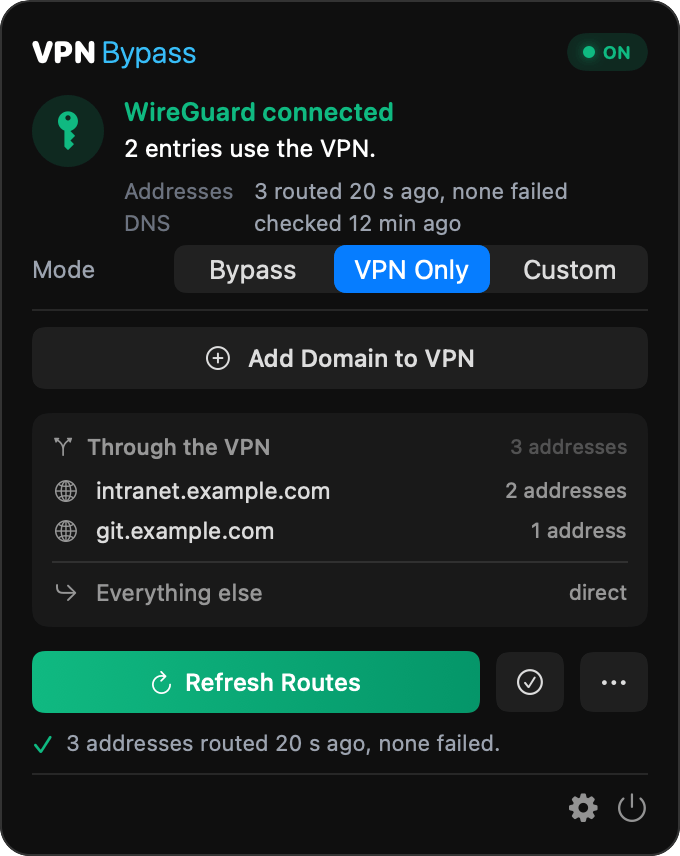
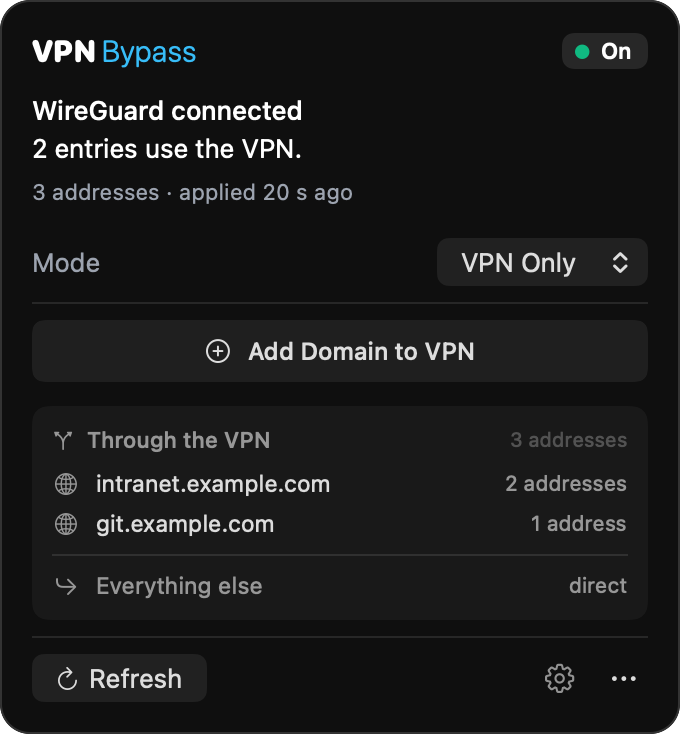
docs: describe the status chip, the new footer and Status > Problems

diff --git a/docs/usage.md b/docs/usage.md
@@ -6,21 +6,19 @@ Two words mean one thing each on screen. A **route** is a way out for traffic in
 
 Click the VPN Bypass mark in the menu bar: two lines and a bar, with an arrow head on the top line while routes are enforced. The dropdown shows:
 
-- a pill that reads ON, WAITING (the app waits for a reconnected tunnel to hold before it re-applies routes), HELD BACK (the tunnel dropped right after several applies, so the app is not applying until it has held for 30 minutes), NOTHING ROUTED (no address is routed), NOT SET UP (a fresh install with nothing configured), NOT ENFORCING (the helper is down), NO EFFECT (the VPN's kill switch sends all traffic through it, so the routes change nothing; see [VPN kill switches](coexistence.md#vpn-kill-switches)) or OFF (no VPN);
-- the VPN it found, one sentence on what your lists route, and two facts: how many addresses were last routed, when, and whether any failed, and when DNS was checked and runs next. While the pill reads WAITING or HELD BACK, the header says how long is left instead;
+- a status chip next to the wordmark, the only coloured mark at the top: On, Waiting (the app waits for a reconnected tunnel to hold before it re-applies routes, or holds back after the tunnel dropped right after several applies), Partly routed (some of your list is routed and some failed or has no addresses), Not routing (nothing is routed, the helper is down, or the VPN's kill switch sends all traffic through it, so the routes change nothing; see [VPN kill switches](coexistence.md#vpn-kill-switches)) or Off (no VPN, or a fresh install with nothing configured), in grey, since neither is a fault;
+- three lines under it: the VPN it found, one sentence on what your lists route, and a third line with the numbers, for example "62 addresses · applied 24 s ago · DNS again in 18 min". When something is wrong, the third line says what instead, with one button: with the helper down it says how many addresses from before are still routed, never that nothing is, and Fix… opens Settings > Status, where the helper's Install button is; when part of an apply failed it gives the count, for example "62 addresses, 7 failed", and Show opens Settings > Status > Problems. Problems lists each address the system refused and each name that did not resolve, with the entry it was for and the reason, then the entries that route no address; Retry applies the routes again, or after a Remove All Routes that left some, removes them again. With no VPN it says what connecting does in the current mode. While the chip reads Waiting, it counts down to the apply;
 - on a fresh install in Bypass mode, in place of everything down to the gear: the question "What should skip the VPN?", six common services with their switches, a row that opens Settings on the Services page, a field to add a site, and a line that offers VPN Only. Once a service is on or a site is on the list, the normal dropdown below takes its place at once;
-- the Mode control, with Bypass, VPN Only and Custom in every mode. Picking another mode asks first, and the selection moves only after you confirm. Entering Custom turns your lists into rules here too, when Custom has no rules yet and the current mode's list has an entry switched on, and the question says so only then, as the Settings sheet does;
+- the Mode popup, with Bypass, VPN Only and Custom in every mode. Picking another mode asks first, and the selection moves only after you confirm. Entering Custom turns your lists into rules here too, when Custom has no rules yet and the current mode's list has an entry switched on, and the question says so only then, as the Settings sheet does;
 - a field to add a domain to the current mode's list. In Custom mode it adds a rule on the Direct route instead: an IP range such as `10.0.0.0/24` becomes a CIDR rule, and a name or a pasted link becomes a domain rule for its host. A value it cannot save stays in the field with a line under it that says why: a range with a prefix outside /2 to /32, or a value that already has a rule. When that rule is on another route, such as your VPN or a proxy, the line names the route, since the first matching rule wins and a Direct rule after it would do nothing;
-- what your lists route, one row per service, domain or IP range you added, with how many addresses it routes, under Skipping the VPN in Bypass or Through the VPN in VPN Only. Hover over a row to see its addresses. A row that routes no address while no apply is running or waiting after a reconnect gets an amber mark and "no addresses". In VPN Only the app's own catch-alls are one line, "Everything else: direct", and the counts leave them out: the card, the header's Addresses fact, the line under the buttons, the Status page's Addresses section and the Addresses Routed notification all count only the addresses your lists route. Addresses owned under Tunnels on the Status page counts the kernel's routes that carry the app's tag by the same rule and names the catch-alls apart, as in "2, plus 4 catch-alls". With only the catch-alls in place, the pill still reads ON, since everything else is routed direct. In Custom mode, Routes In Use comes first, then Routed by your rules lists the rules that routed an address. Addresses that no entry on your lists owns, such as those of an entry you just removed, are one "Left from earlier" line;
-- Refresh Routes, a Verify Routes icon, and a "…" menu with Refresh Routes, Verify Routes, Re-resolve DNS Now, Open Logs, Settings…, Quit VPN Bypass and Remove All Routes…, which asks before it removes anything;
-- after Verify Routes, a Route check card above the buttons. Verify path-checks at most 10 of the routed addresses: single addresses only, because a range has no one address to connect to, and the first 10 in sort order. Each must leave the way its route points and answer on port 443, and a control address the app does not route must leave the other way, or every result reads "Check broken" (see [Path check](how-it-works.md#path-check)). The card says how many of how many addresses it checked, for example "Checked 10 of 62 addresses (single addresses only).", lists the addresses that did not answer first, up to three with what each is routed for and why it failed ("Went into utun4", "No answer on 443 via en0") and then "+ N more", then one line for the rest with their response times. "Show all 10 results in Logs" opens Settings on the Logs page, where each address has its own line. With only address ranges routed, the card says there was nothing the path check could test;
-- one line under the buttons with the result of the last apply, for example "62 addresses routed 23 s ago, none failed";
-- after a change made through `vpnb` or an [MCP server](mcp-server.md), a line at the foot that names it, for example "Last change: added en.wikipedia.org via the command line, 2 min ago". Click it to open Logs showing only the lines that came through the control socket. A change you make in the app removes the line;
-- the gear that opens Settings and the power button that quits the app.
+- what your lists route, one row per service, domain or IP range you added, with how many addresses it routes, under Skipping the VPN in Bypass or Through the VPN in VPN Only. Hover over a row to see its addresses. A row that routes no address while no apply is running or waiting after a reconnect gets an amber mark and "no addresses". In VPN Only the app's own catch-alls are one line, "Everything else: direct", and the counts leave them out: the card, the third line at the top, the Status page's Addresses section and the Addresses Routed notification all count only the addresses your lists route. Addresses owned under Tunnels on the Status page counts the kernel's routes that carry the app's tag by the same rule and names the catch-alls apart, as in "2, plus 4 catch-alls". With only the catch-alls in place, the chip still reads On, since everything else is routed direct. In Custom mode, Routes In Use comes first, then Routed by your rules lists the rules that routed an address. Addresses that no entry on your lists owns, such as those of an entry you just removed, are one "Left from earlier" line;
+- Refresh, the gear that opens Settings, and a "…" menu with Verify Routes and Re-resolve DNS Now while a VPN is connected, then Open Logs, Quit VPN Bypass and Remove All Routes…, which asks before it removes anything. The gear and the "…" menu take a click anywhere in a 24 pt square around them;
+- after Verify Routes, the result is a Route check card on Settings > Status, where Dismiss takes it away. Verify path-checks at most 10 of the routed addresses: single addresses only, because a range has no one address to connect to, and the first 10 in sort order. Each must leave the way its route points and answer on port 443, and a control address the app does not route must leave the other way, or every result reads "Check broken" (see [Path check](how-it-works.md#path-check)). The card says how many of how many addresses it checked, for example "Checked 10 of 62 addresses (single addresses only).", lists the addresses that did not answer first, up to three with what each is routed for and why it failed ("Went into utun4", "No answer on 443 via en0") and then "+ N more", then one line for the rest with their response times. "Show all 10 results in Logs" opens the Logs page, where each address has its own line. With only address ranges routed, the card says there was nothing the path check could test;
+- after a change made through `vpnb` or an [MCP server](mcp-server.md), a line at the foot that names it, for example "Last change: added en.wikipedia.org via the command line, 2 min ago". Click it to open Logs showing only the lines that came through the control socket. A change you make in the app removes the line.
 
 Each time you open the dropdown, the app checks the VPN again and puts back any route macOS dropped, so the dropdown shows the state as it is now. It also runs the same check every 30 seconds, whether the dropdown is open or not, and while an alert such as the mode switch question waits for an answer.
 
-While the dropdown is open, ⌘, opens Settings and ⌘Q quits. ⌘R refreshes routes only while the Refresh Routes button shows, which is when a VPN is connected; with no VPN, on first run and during the first check it does nothing. Holding ⌘R refreshes once. The "…" menu lists each shortcut next to its item, and the gear's and power button's tooltips name theirs.
+While the dropdown is open, ⌘, opens Settings and ⌘Q quits. ⌘R refreshes routes only while the Refresh button is enabled, which is when a VPN is connected and the helper is ready; otherwise it does nothing. Holding ⌘R refreshes once. The "…" menu lists ⌘Q next to Quit, and the Refresh button's and the gear's tooltips name their shortcuts.
 
 ![The dropdown in Bypass mode: WireGuard connected, the status chip reads On, and four services and two domains skip the VPN, each with how many addresses it routes](images/screenshots/menu-bar.png){ width="340" }
 

diff --git a/docs/getting-started.md b/docs/getting-started.md
@@ -44,17 +44,17 @@ Open `Package.swift` in Xcode and run the project.
 2. macOS asks for an administrator password once. That installs the root helper that edits the routing table. On macOS 13 and later it may also ask you to allow VPN Bypass under System Settings > General > Login Items; the app says so in its dropdown when that is the case.
 3. Connect your VPN. The dropdown reads VPN Connected and names the client it found.
 
-A fresh install routes nothing. The pill in the dropdown reads NOT SET UP, and the dropdown asks "What should skip the VPN?" with six common services, each with a switch, a row for all the services, and a field to add a site.
+A fresh install routes nothing. The status chip in the dropdown reads Off, in grey, and the dropdown asks "What should skip the VPN?" with six common services, each with a switch, a row for all the services, and a field to add a site.
 
-![The dropdown right after install: WireGuard connected, the pill reads NOT SET UP, and the question What should skip the VPN? over six services with switches and a field to add a site](images/screenshots/first-run.png){ width="340" }
+![The dropdown right after install: WireGuard connected, the status chip reads Off, and the question What should skip the VPN? over six services with switches and a field to add a site](images/screenshots/first-run.png){ width="340" }
 
 Switch on a service there, or type a site into the field and press Return. "All 51 services…" opens Settings on the Services page with the service catalogue open. If you want the opposite, only a few sites on the VPN, click "Use VPN Only instead…". It worked when:
 
-- the pill reads ON;
+- the status chip reads On;
 - the menu bar mark shows its arrow head (it is two plain lines and a bar while nothing is routed);
 - the question gives way to the normal dropdown, and the service or domain appears under Skipping the VPN with how many addresses it routes.
 
-If the pill reads NOT ENFORCING, the helper is not running; Settings > Status shows its state, with an Install, Update or Retry button; the dropdown's Fix… button opens it. If macOS says the app is damaged, see [Troubleshooting](troubleshooting.md#app-wont-open-damaged-error-macos-gatekeeper).
+If the status chip reads Not routing and the dropdown says the helper is not running, Settings > Status shows its state, with an Install, Update or Retry button; the dropdown's Fix… button opens it. If macOS says the app is damaged, see [Troubleshooting](troubleshooting.md#app-wont-open-damaged-error-macos-gatekeeper).
 
 ## Requirements
 

diff --git a/docs/index.md b/docs/index.md
@@ -52,7 +52,7 @@ Corporate VPN clients send everything through the tunnel, so streaming stalls, A
 
 ## The menu bar app
 
-Everything lives in the dropdown: the VPN it found, a pill that says whether routes are enforced, the Mode switch, a field to add a domain, and what is routed, one row per service or domain you added. Settings opens from the gear at its foot. See [Usage](usage.md).
+Everything lives in the dropdown: the VPN it found, a status chip that says whether routes are enforced, the Mode popup, a field to add a domain, and what is routed, one row per service or domain you added. Settings opens from the gear at its foot. See [Usage](usage.md).
 
 <div class="vb-gallery" markdown>
 <figure markdown>
@@ -60,11 +60,11 @@ Everything lives in the dropdown: the VPN it found, a pill that says whether rou
 <figcaption>Bypass mode</figcaption>
 </figure>
 <figure markdown>
-![The dropdown right after install: WireGuard connected, the pill reads NOT SET UP, and the question What should skip the VPN? over six services with switches and a field to add a site](images/screenshots/first-run.png)
+![The dropdown right after install: WireGuard connected, the status chip reads Off, and the question What should skip the VPN? over six services with switches and a field to add a site](images/screenshots/first-run.png)
 <figcaption>First run</figcaption>
 </figure>
 <figure markdown>
-![The dropdown in VPN Only mode: the Mode control on VPN Only, the pill reads ON, two domains go through the VPN, and everything else goes direct](images/screenshots/vpn-only.png)
+![The dropdown in VPN Only mode: the Mode popup on VPN Only, the status chip reads On, two domains go through the VPN, and everything else goes direct](images/screenshots/vpn-only.png)
 <figcaption>VPN Only mode</figcaption>
 </figure>
 </div>

diff --git a/docs/coexistence.md b/docs/coexistence.md
@@ -116,7 +116,7 @@ is how they are meant to work.
 
 The app warns when a connected VPN has `includeAllNetworks` on, whichever tunnel it acts on, or
 when the VPN it acts on has `enforceRoutes` on. A split VPN with `enforceRoutes` next to it leaves
-the routes working, so it gives no warning. Then the dropdown's pill reads NO EFFECT and its
+the routes working, so it gives no warning. Then the dropdown's status chip reads Not routing and its
 sentence says why, for example "Proton VPN's kill switch sends all traffic through the VPN. Sites
 set to skip it still go through it." With `enforceRoutes` it says instead that anything the VPN's
 own routes cover goes through it, since the app does not read those routes. Settings > Status says "No effect", the menu bar mark loses
@@ -126,7 +126,7 @@ still go direct. The routes stay installed, so they work again as soon as the se
 
 There are two ways out:
 
-1. **Turn the kill switch off** in the VPN app. The routes take effect at once. The pill catches
+1. **Turn the kill switch off** in the VPN app. The routes take effect at once. The chip catches
    up on the app's next VPN check: within 30 seconds, or when you open the menu.
 2. **Use the VPN's own split tunnelling**, if it has one. Proton VPN's excludes apps from inside
    the tunnel, so it works where routes cannot. Proton turns its kill switch off when

diff --git a/README.md b/README.md
@@ -48,7 +48,7 @@ brew trust --cask geiserx/vpn-bypass/vpn-bypass
 brew install --cask vpn-bypass
 ```
 
-Then open VPN Bypass from Applications, approve the one admin prompt that installs the root helper, connect your VPN, and turn on a service in Settings > Services or type a domain into the dropdown. It worked when the pill in the dropdown reads ON and the menu bar mark shows its arrow. Needs macOS 13 or later; the DMG, building from source and the fix for "the app is damaged" are in [Getting started](https://geiserx.github.io/VPN-Bypass/getting-started/).
+Then open VPN Bypass from Applications, approve the one admin prompt that installs the root helper, connect your VPN, and turn on a service in Settings > Services or type a domain into the dropdown. It worked when the status chip in the dropdown reads On and the menu bar mark shows its arrow. Needs macOS 13 or later; the DMG, building from source and the fix for "the app is damaged" are in [Getting started](https://geiserx.github.io/VPN-Bypass/getting-started/).
 
 ## Documentation
 
